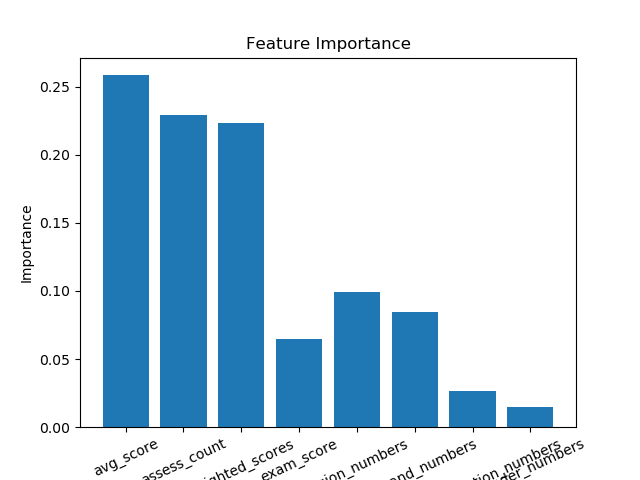
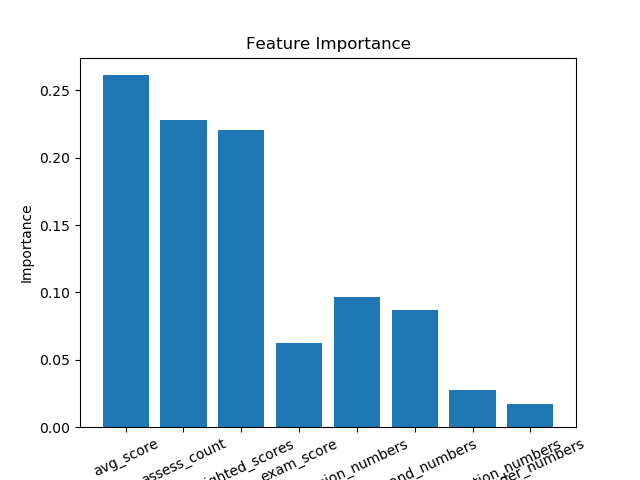
Works begins

diff --git a/classifier2.py b/classifier2.py
@@ -1,0 +1,181 @@
+#########################################################################
+#                                                                       #
+#   ####     ####    ####                                               #
+#   #####   #####    ####                                               #
+#   #############    ####                                               #
+#   #### ### ####    ####                                               #
+#   ####     ####    ####                                               #
+#   ####     ####    #########                                          #
+#   ####     ####    #########                                          #
+#                                                                       #
+#########################################################################
+
+import numpy as np
+import pandas as pd
+import os
+from tqdm import tqdm
+from collections import defaultdict
+
+#########################################################################
+# SECTION ONE                                                           #
+# ===========                                                           #
+#                                                                       #
+# In this section we load the csv files in to memory so they are        #
+# available for processing in the rest of the program.                  #
+#                                                                       #
+# We expect to load in the following files:                             #
+#   -assessments.csv                                                    #
+#   -courses.csv                                                        #
+#   -studentAssessment.csv                                              #
+#   -studentInfo.csv                                                    #
+#   -studentRegistration.csv                                            #
+#   -studentVle.csv                                                     #
+#   -vle.csv                                                            #
+#                                                                       #
+#########################################################################
+
+# Import data from local directory
+DATA_DIRECTORY = os.getcwd()
+
+# We will store each pandas dataframe in a dictionary
+data = {}
+loadbar = tqdm(os.listdir(DATA_DIRECTORY))
+loadbar.set_description('Reading csv files')
+for filename in loadbar:
+    # Load all csv files and save with suitable name
+    if filename.endswith('.csv'):
+        data[filename[:-4]] = pd.read_csv(filename)
+del loadbar
+
+for title, table in data.items():
+    print("    -{}".format(title))
+
+#########################################################################
+# SECTION TWO                                                           #
+# ===========                                                           #
+#                                                                       #
+# We convert various categorical features into numerical data:          #
+#   -specific module has 22 categories e.g. AAA 2013B                   #
+#       solution is 5 binary features - year (13/14), month(B/J) and    #
+#       3 single bit features to encode the 7 module codes              #
+#   -age_band: simply pick a reasonable number within the range         #
+#       25, 45 or 65 years old                                          #
+#   -region:                                                            #
+#       each region can be expressed as 4 features showing how often    #
+#       it receives each result compared to the national average        #
+#   -highest_education:                                                 #
+#       can be encoded with three bits                                  #
+#   -imd_band:                                                          #
+#       each option is a range so simply use median value for each      #
+#       we set missing values to 50                                     #
+#   -disability: Y = 1, N = 0                                           #
+#                                                                       #
+#########################################################################
+
+# First add new features to data['studentInfo'] by converting existing
+# categorical data in the table to numeric data
+year, month, modBit0, modBit1, modBit2, edu_bit0, edu_bit1, edu_bit2 = [], [], [], [], [], [], [], []
+
+stuInfobar = tqdm(iterable=data['studentInfo'].iterrows(), total=len(data['studentInfo']))
+stuInfobar.set_description('Converting module feature')
+for i, row in stuInfobar:
+    # Some features need to be expressed in new columns
+    yearVal = 1 if row['code_presentation'][3] == '4' else 0
+    monthVal = 1 if row['code_presentation'][4] == 'J' else 0
+    year.append(yearVal)
+    month.append(monthVal)
+    
+    module_code = row['code_module'][0]
+    mb0Val = 1 if module_code in ['E', 'F', 'G'] else 0
+    mb1Val = 1 if module_code in ['C', 'D', 'G'] else 0
+    mb2Val = 1 if module_code in ['B', 'D', 'F'] else 0
+    modBit0.append(mb0Val)
+    modBit1.append(mb1Val)
+    modBit2.append(mb2Val)
+    
+    education = row['highest_education']
+    eb0Val = 1 if education in ['Lower Than A Level', 'HE Qualification'] else 0
+    eb1Val = 1 if education in ['A Level or Equivalent', 'HE Qualification'] else 0
+    eb2Val = 1 if education in ['Post Graduate Qualification'] else 0
+    edu_bit0.append(eb0Val)
+    edu_bit1.append(eb1Val)
+    edu_bit2.append(eb2Val)
+
+    # Other times exising columns can be altered
+    # Age
+    age_band = data['studentInfo'].loc[i, 'age_band']
+    if age_band == '0-35':
+        age_num = 25
+    elif age_band == '35-55':
+        age_num = 45
+    else:
+        age_num = 65
+    data['studentInfo'].loc[i, 'age_band'] = age_num
+
+    # IMD Band
+    imd_band = data['studentInfo'].loc[i, 'imd_band']
+    imd_num = int(imd_band[0]) * 10 + 5 if type(imd_band) == str else 50
+    data['studentInfo'].loc[i, 'imd_band'] = imd_num
+
+    # Disability
+    data['studentInfo'].loc[i, 'disability'] = 1 if row['disability'] == 'Y' else 0
+
+# When new columns were generated they must be added to the dataframe
+data['studentInfo']['year'] = year
+data['studentInfo']['month'] = month
+
+data['studentInfo']['modBit0'] = modBit0
+data['studentInfo']['modBit1'] = modBit1
+data['studentInfo']['modBit2'] = modBit2
+
+data['studentInfo']['edu_bit0'] = edu_bit0
+data['studentInfo']['edu_bit1'] = edu_bit1
+data['studentInfo']['edu_bit2'] = edu_bit2
+
+del year, yearVal
+del month, monthVal
+
+del modBit0, mb0Val
+del modBit1, mb1Val
+del modBit2, mb2Val
+
+del edu_bit0, eb0Val
+del edu_bit1, eb1Val
+del edu_bit2, eb2Val
+
+del stuInfobar
+
+print('Data converted')
+print(data['studentInfo'].columns)
+
+
+# Secondly add data from studentAssessment.csv calculating weighted coursework scores and exam scores
+data['studentInfo']['courseworkScore'] = np.nan
+data['studentInfo']['examScore'] = np.nan
+
+# Need to build a dictionary of assessment info
+assInfo = {}
+assBar = tqdm(iterable=data['assessments'].iterrows(), total=len(data['assessments']))
+assBar.set_description('Load assessment info')
+for _, row in assBar:
+    assInfo[row['id_assessment']] = {
+        'type': row['assessment_type'],
+        'weight': row['weight']
+        }
+del assBar
+
+courseworkMarks = defaultdict(list)
+examMarks = defaultdict(list)
+
+# Now we can fill the dictionaries creating lists of assessments
+# for each student
+marksBar = tqdm(iterable=data['studentAssessment'].iterrows(), total=len(data['studentAssessment']))
+marksBar.set_description('Record marks for each student')
+for _, row in marksBar:
+    ass = row['id_assessment']
+    stu = row['id_student']
+    if assInfo[ass]['type'] == 'Exam':
+        examMarks[stu].append(row['score'])
+    else:
+        courseworkMarks[stu].append((row['score'], assInfo[ass]['weight']))
+del marksBar

diff --git a/featureData.py b/featureData.py
@@ -6,18 +6,26 @@
 import pandas as pd
 import numpy as np
 from sklearn.cluster import KMeans
+from collections import defaultdict
 
 stuInfo = pd.read_csv("studentInfo.csv")
 
-N = 3
+print("Loaded data")
+
+# The first approach uses kmeans clustering to divide
+# the regions into N groups based on student results
+N = 2
 kmeans = KMeans(n_clusters=N, random_state=42)
 
 # Create a dictionary to map final_result to a unique value
 resDim = {result:i for i, result in enumerate(np.unique(stuInfo["final_result"]))}
+print("Built result dictionary")
 
 # Build a vector for each region
 regions = {region:i for i, region in enumerate(np.unique(stuInfo["region"]))}
 vectors = [[0 for _ in resDim] for _ in regions]
+print("Built region vectors")
+
 for reg, res in zip(stuInfo["region"], stuInfo["final_result"]):
     vectors[regions[reg]][resDim[res]] += 1
 
@@ -26,9 +34,49 @@ for vector in vectors:
     total = sum(vector)
     for i in range(len(vector)):
         vector[i] /= total
+print("Normalised vectors")
 
 # Perform clustering
 kmeans.fit(vectors)
+print("Clustering done")
+
+# Second approach will score each region
+# Init container to tally student results per region
+#       Dictionary rt=regiongTallies key=region  value=tally of each result
+rT = {region:defaultdict(int) for region in np.unique(stuInfo['region'])}
+
+# Create counts
+for reg, res in zip(stuInfo['region'], stuInfo['final_result']):
+    rT[reg][res] += 1
+
+# Create proportional data
+for reg in rT:
+    total = sum(rT[reg].values())
+    print(reg, total)
+    for res in rT[reg]:
+        rT[reg][res] /= total
+
+# Normalise data
+for res in np.unique(stuInfo['final_result']):
+    mean = sum(rT[reg][res] for reg in stuInfo['region'])/len(rT)
+    var = sum((rT[reg][res] - mean)**2 for reg in stuInfo['region'])/len(rT)
+    print(res, mean, var)
+
+# Helper function to score regions
+def score(data, reg):
+    # Assign coefficients to weight each outcome
+    coef = defaultdict(int)
+    coef['Fail'] = 0
+    coef['Withdrawn'] = 0
+    coef['Pass'] = 1
+    coef['Distinction'] = 2
+
+    # Produce score
+    inputs = ['Fail', 'Withdrawn', 'Pass', 'Distinction']
+    return sum(data[reg][x] * coef[x] for x in inputs)
+
+# Score regions
+rs = {reg: score(rT, reg) for reg in np.unique(stuInfo['region'])}
 
 
 # View results
@@ -36,6 +84,7 @@ groups = {i:[] for i in range(N)}
 for label, reg in zip(kmeans.labels_, regions.keys()):
     groups[label].append(reg)
 
+print('First results')
 for g in groups.values():
     print(g)
 

diff --git a/mods.py b/mods.py
@@ -1,0 +1,21 @@
+# Auxiliary program to compare various modules
+import pandas as pd
+import numpy as np
+from collections import defaultdict
+
+stuinfo = pd.read_csv('studentInfo.csv')
+modules = pd.read_csv('courses.csv')
+print('Loaded data')
+
+# How many students do each module
+studentMods = defaultdict(int)
+
+for _, row in stuinfo.iterrows():
+    # Course
+    studentMods[row['code_module']] += 1
+    # Year
+    studentMods[row['code_presentation'][3]] += 1
+    # Month
+    studentMods[row['code_presentation'][4]] += 1
+    
+
